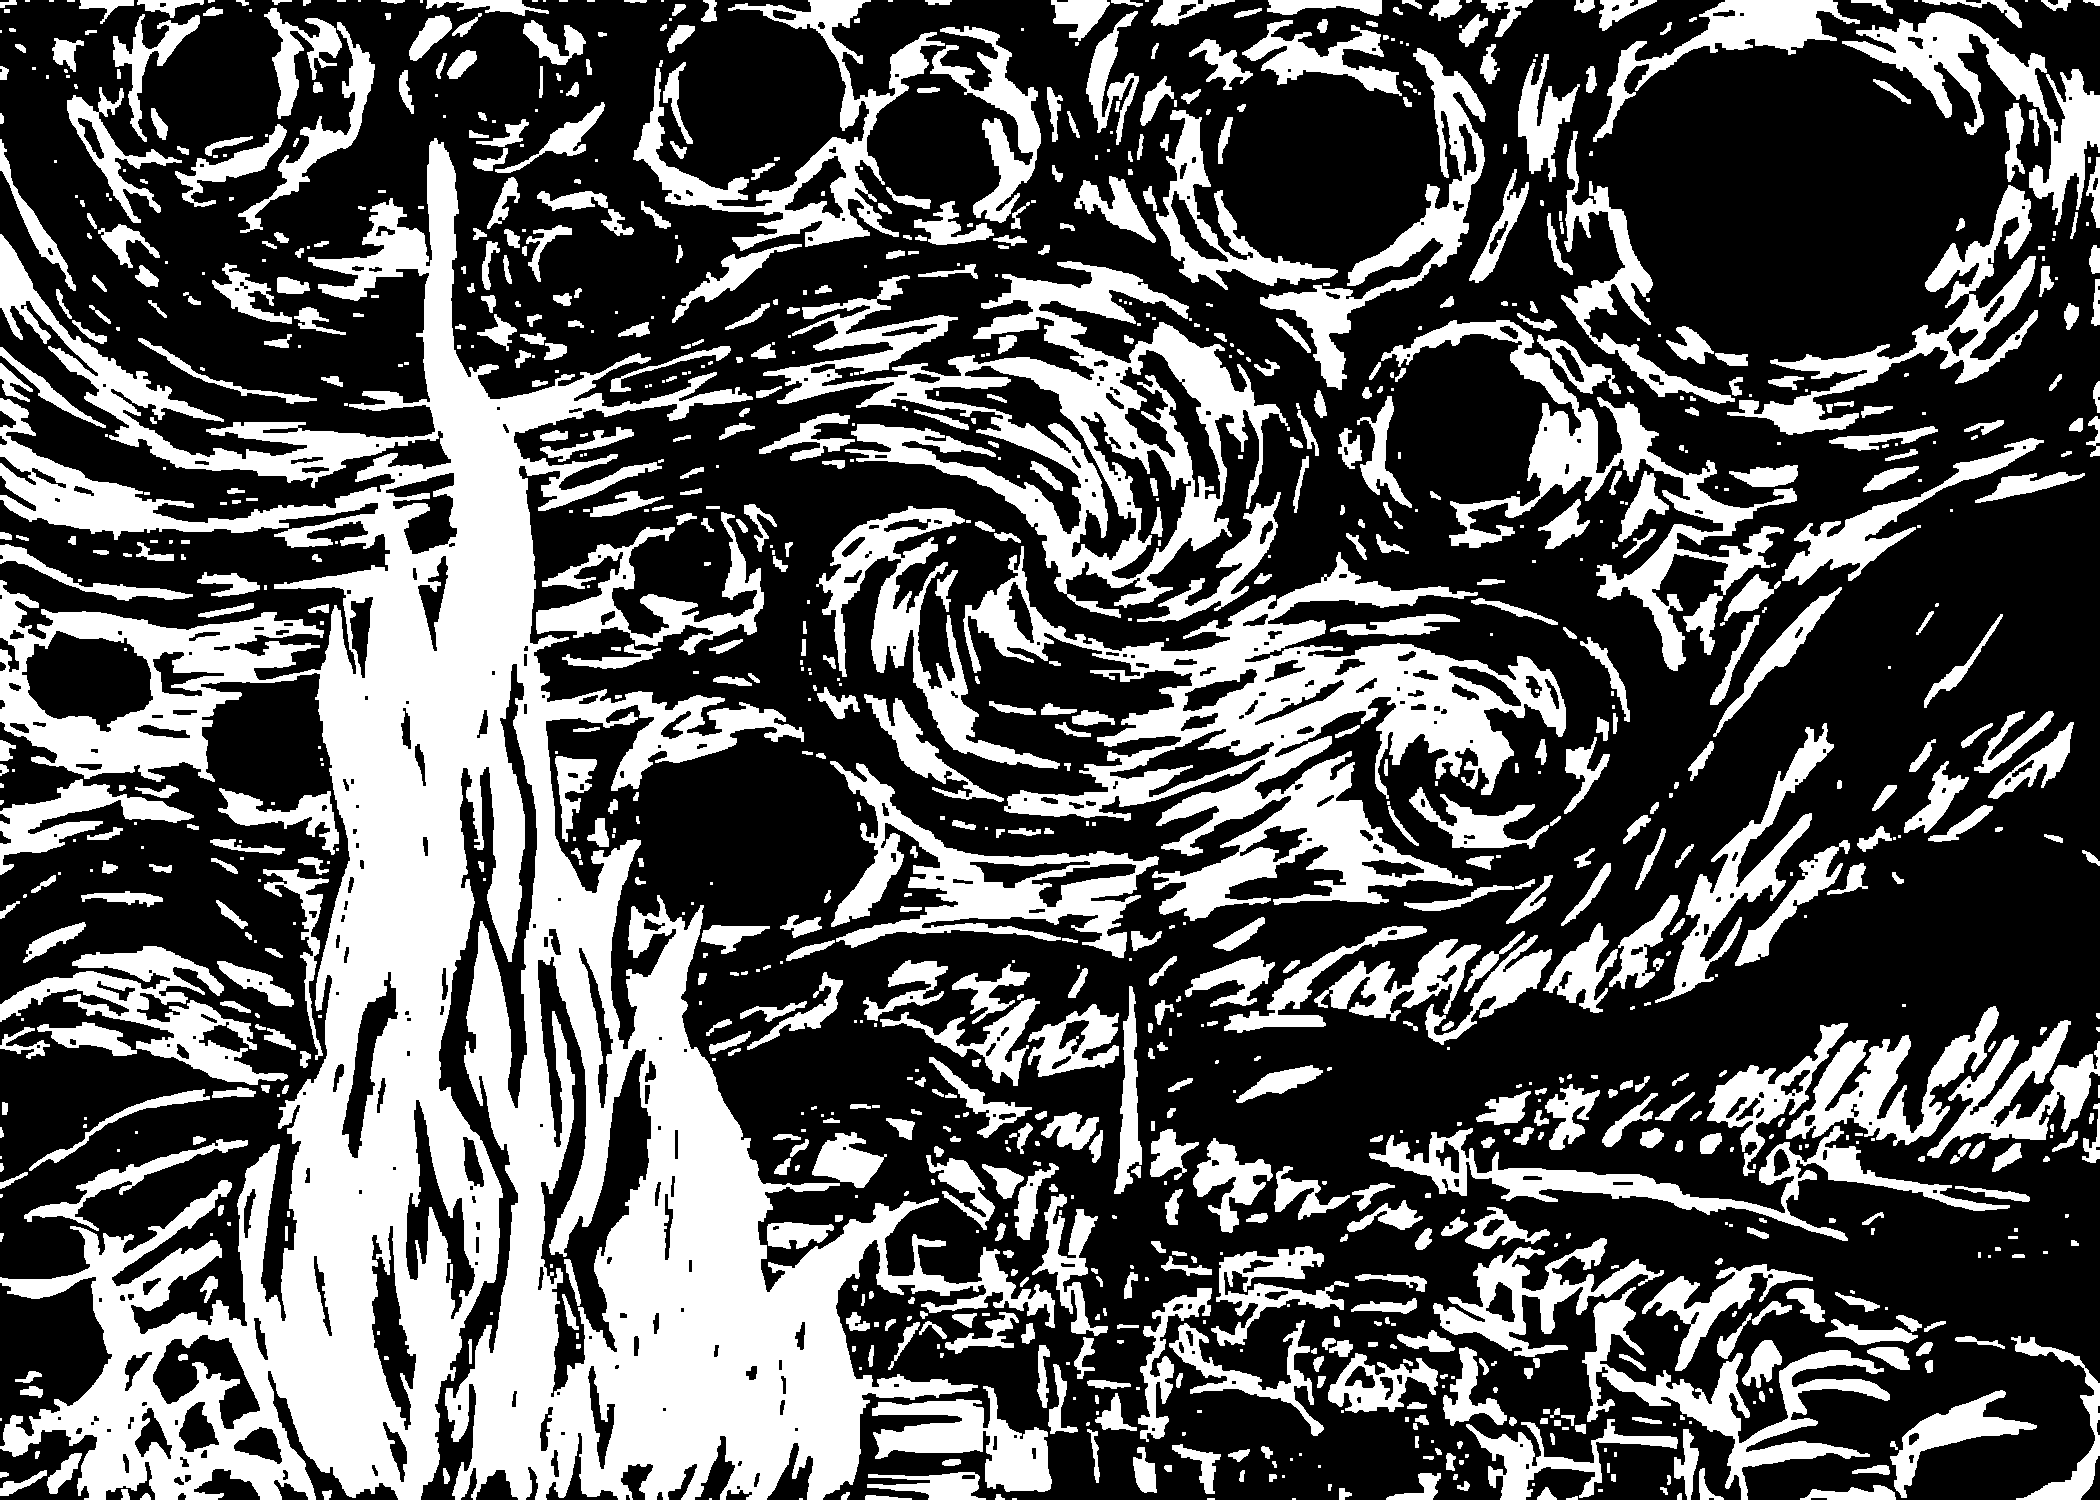
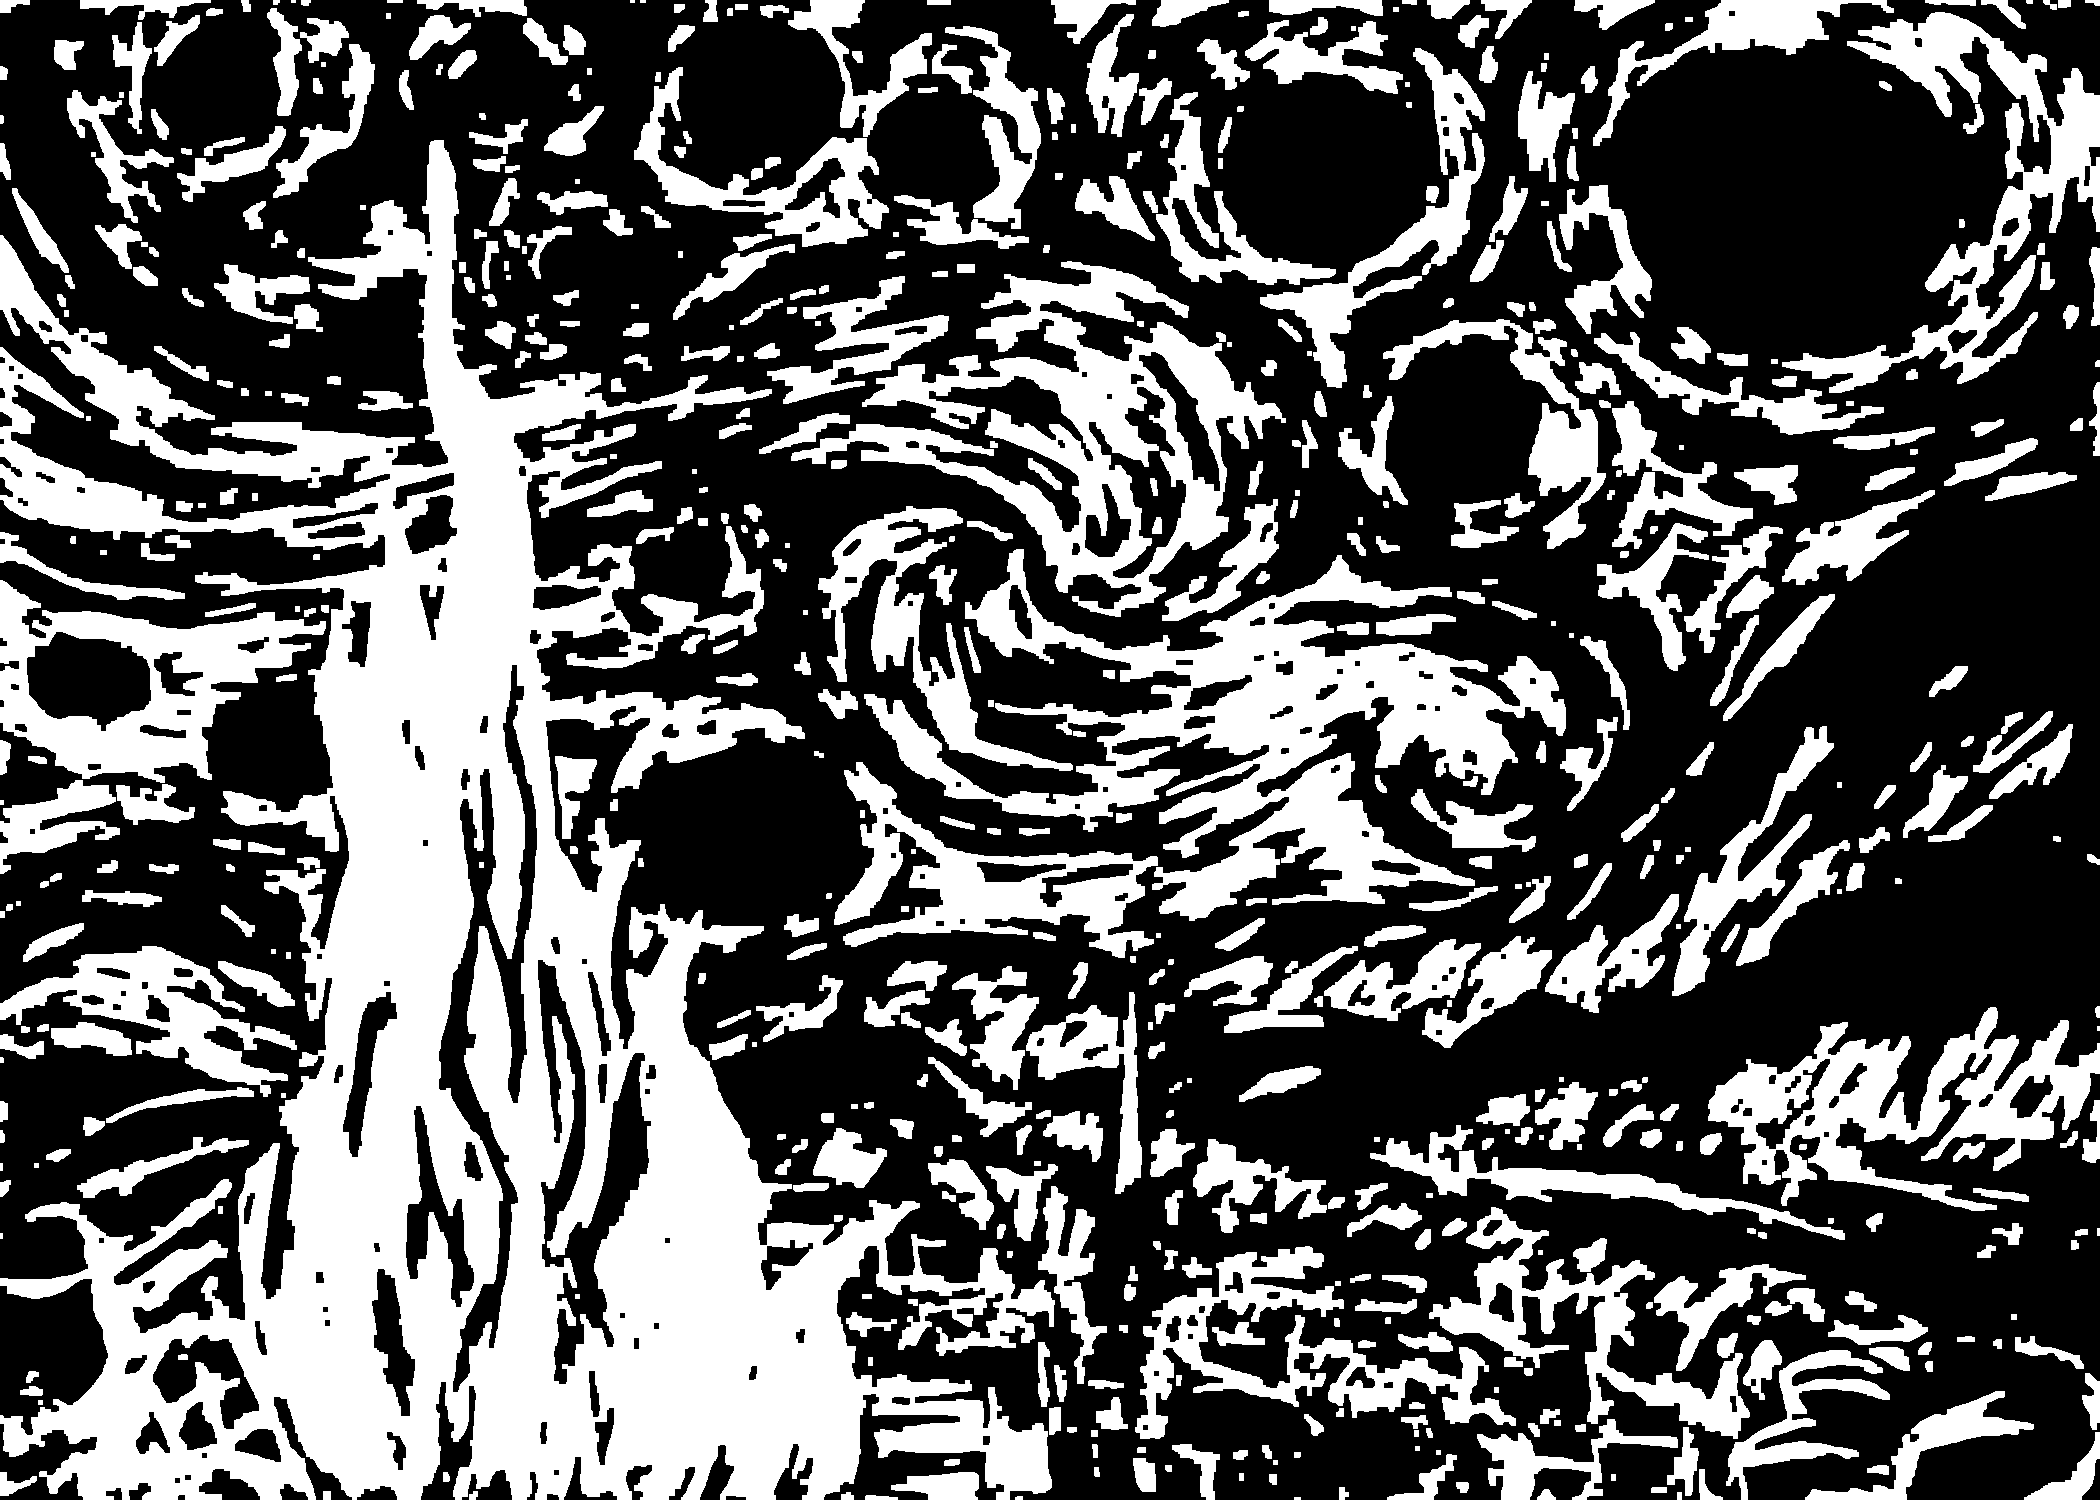
测试完毕，理由是

diff --git a/星空/04平滑处理.py b/星空/04平滑处理.py
@@ -2,15 +2,15 @@ import cv2
 import numpy as np
 
 # 读取图像
-image = cv2.imread("03/topCu.png", cv2.IMREAD_GRAYSCALE)
-
+image = cv2.imread("yuan_1_3/mask_5.png", cv2.IMREAD_GRAYSCALE)
+cv2.imshow("yuan", image)
 # 定义膨胀核大小和迭代次数
-kernel_size = 5
+kernel_size = 3
 iterations = 1
 # 创建膨胀核
 kernel = np.ones((kernel_size, kernel_size), np.uint8)
 # 定义腐蚀核大小和迭代次数
-kernel_size = 5
+kernel_size = 3
 iterations = 1
 # 创建腐蚀核
 kernel = np.ones((kernel_size, kernel_size), np.uint8)
@@ -21,14 +21,20 @@ image = cv2.dilate(image, kernel, iterations=iterations)
 # 腐蚀操作
 image = cv2.erode(image, kernel, iterations=iterations)
 
-# 腐蚀操作
-image = cv2.erode(image, kernel, iterations=iterations)
+# # 腐蚀操作
+# image = cv2.erode(image, kernel, iterations=iterations)
 
-# 膨胀操作
-image = cv2.dilate(image, kernel, iterations=iterations)
+# # 膨胀操作
+# image = cv2.dilate(image, kernel, iterations=iterations)
 
 
 
 
 # 保存输出图像
-cv2.imwrite('04/topCu.png', image)
+a = cv2.imwrite('./yuan_1_4/mask_5.png', image)
+print(a)
+cv2.imshow("out", image)
+while True:
+    if cv2.waitKey(1) & 0xff == ord("q"):
+        break
+cv2.destroyAllWindows()

diff --git a/星空/03颜色合并.py b/星空/03颜色合并.py
@@ -8,8 +8,8 @@ import cv2
 import numpy as np
 
 # 加载两张图片
-image1 = cv2.imread('02/mask_0.png')
-image2 = cv2.imread('02/mask_1.png')
+image1 = cv2.imread('yuan_1_2/mask_0.png')
+image2 = cv2.imread('yuan_1_2/mask_1.png')
 
 # 确保两张图片具有相同的尺寸
 assert image1.shape == image2.shape, "图片尺寸不匹配"
@@ -26,4 +26,4 @@ for y in range(image1.shape[0]):
             output_image[y, x] = np.array([255, 255, 255])
 
 # 保存输出图像
-cv2.imwrite('02_5/remake2.png', output_image)
+cv2.imwrite('yuan_1_2__5/remake2.png', output_image)

diff --git a/星空/02颜色分离.py b/星空/02颜色分离.py
@@ -30,7 +30,11 @@ image = cv2.imread("./yuan_1_1/20240328_191657.png")
 
 # 创建输出目录
 output_directory = "yuan_1_2"
+# 获取当前工作目录
+current_directory = os.getcwd()
 
+# 打印当前工作目录路径
+print("当前工作目录:", current_directory)
 
 if not os.path.exists(output_directory):
     os.makedirs(output_directory)
